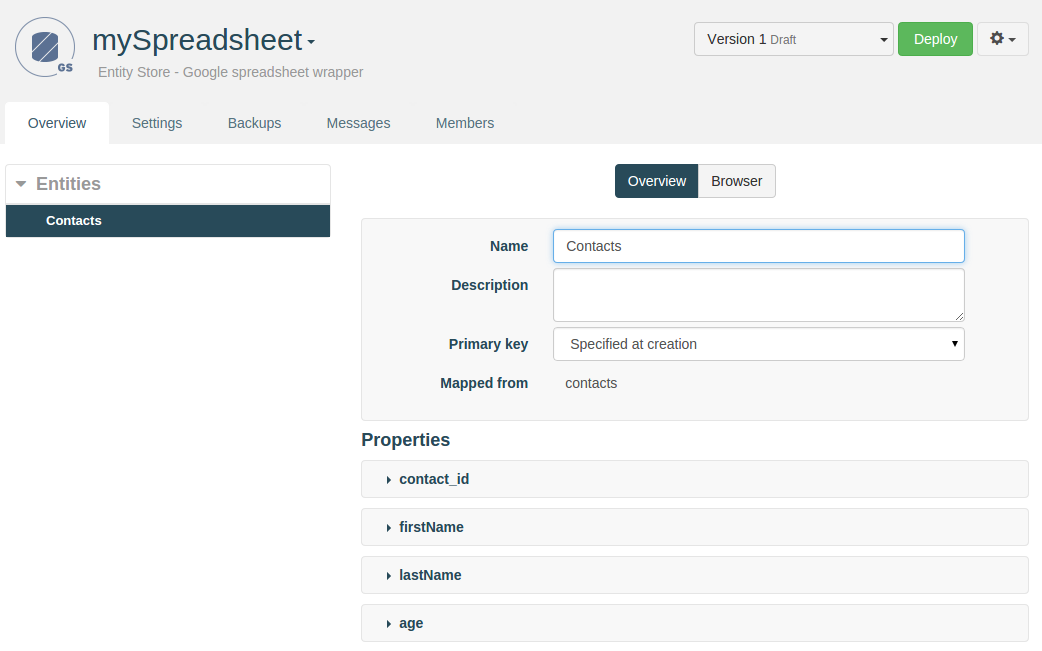
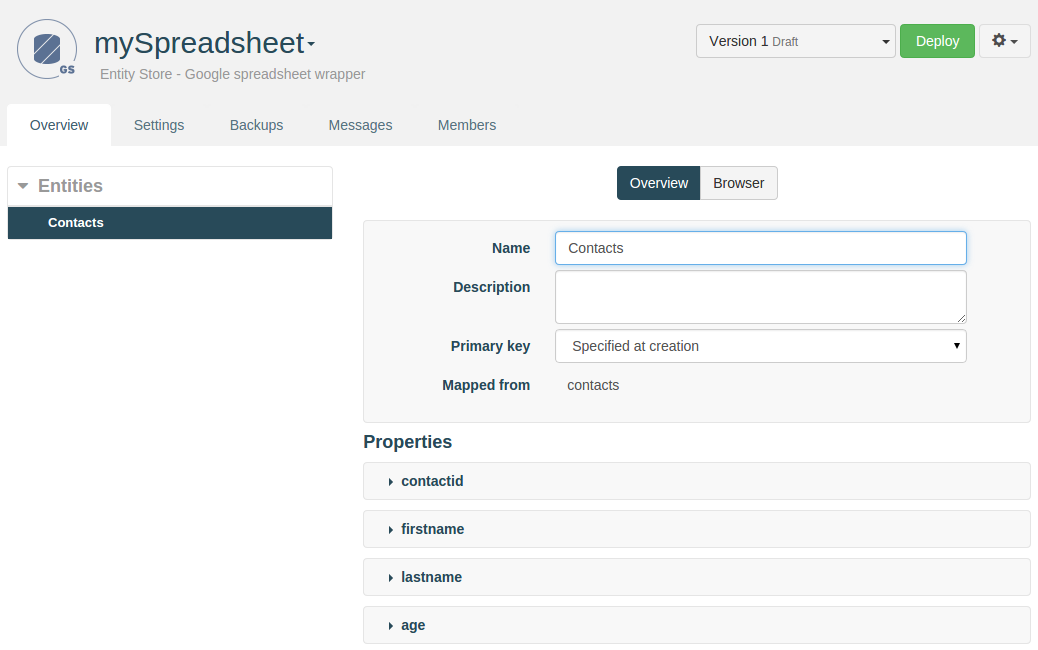
update google spreadsheet tutorials

diff --git a/modules/com.restlet/tech-doc/apispark/tutorials/01_apis-for-publishers/02_turn-spreadsheet-to-api.md b/modules/com.restlet/tech-doc/apispark/tutorials/01_apis-for-publishers/02_turn-spreadsheet-to-api.md
@@ -17,15 +17,17 @@ Sign in to your **Google Drive** account.
 
 In this tutorial example, we have a spreadsheet with a worksheet named **Contacts** with the following columns, containing a list of contacts:
 
-*   **contact_id** : primary key
-*   **firstName** (string) : first name
-*   **lastName** (string) : last name
+*   **contactid** : primary key
+*   **firstname** (string) : first name
+*   **lastname** (string) : last name
 *   **age** (integer) : age
+
+> **Note:** we recommend using lowercase characters from the roman alphabet only for column names.
 
 Add a **Contact** so that you can retrieve it later when performing an HTTP call to your API.
 We've chosen to name ours John Smith, 34 years old.
 
-![Google Spreadsheet](images/google-spreadsheet.jpg "Google Spreadsheet")
+![Google Spreadsheet](images/google-spreadsheet.png "Google Spreadsheet")
 
 # 2. Configure the Google Spreadsheet Wrapper
 
